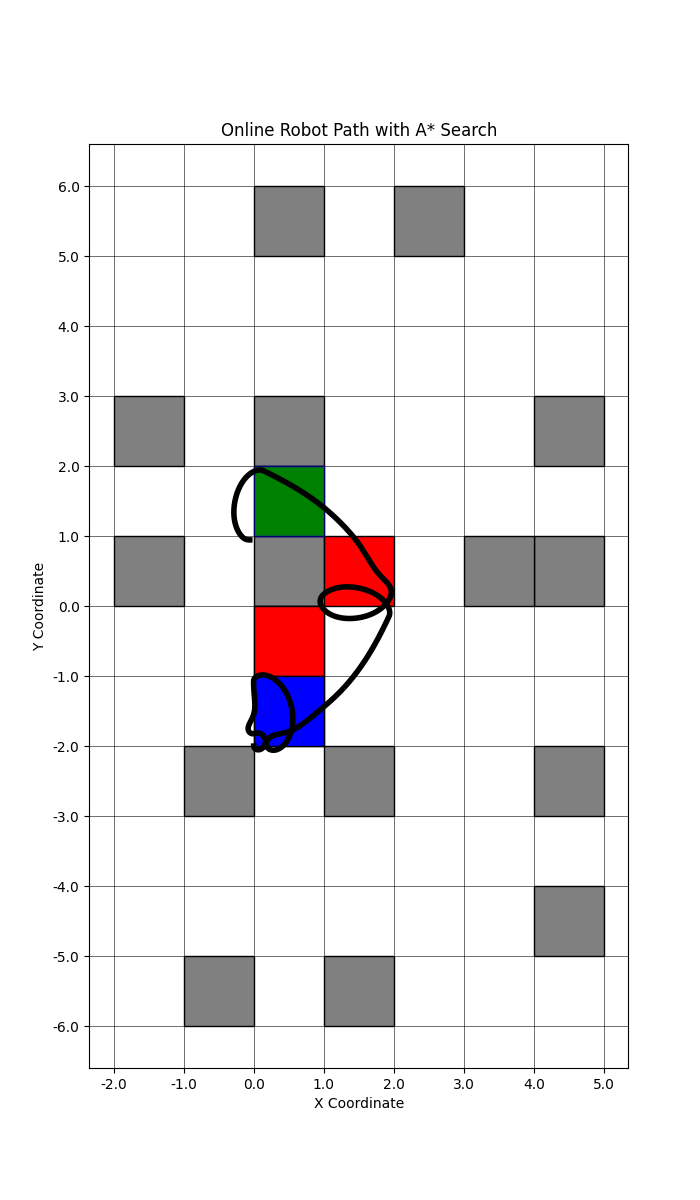
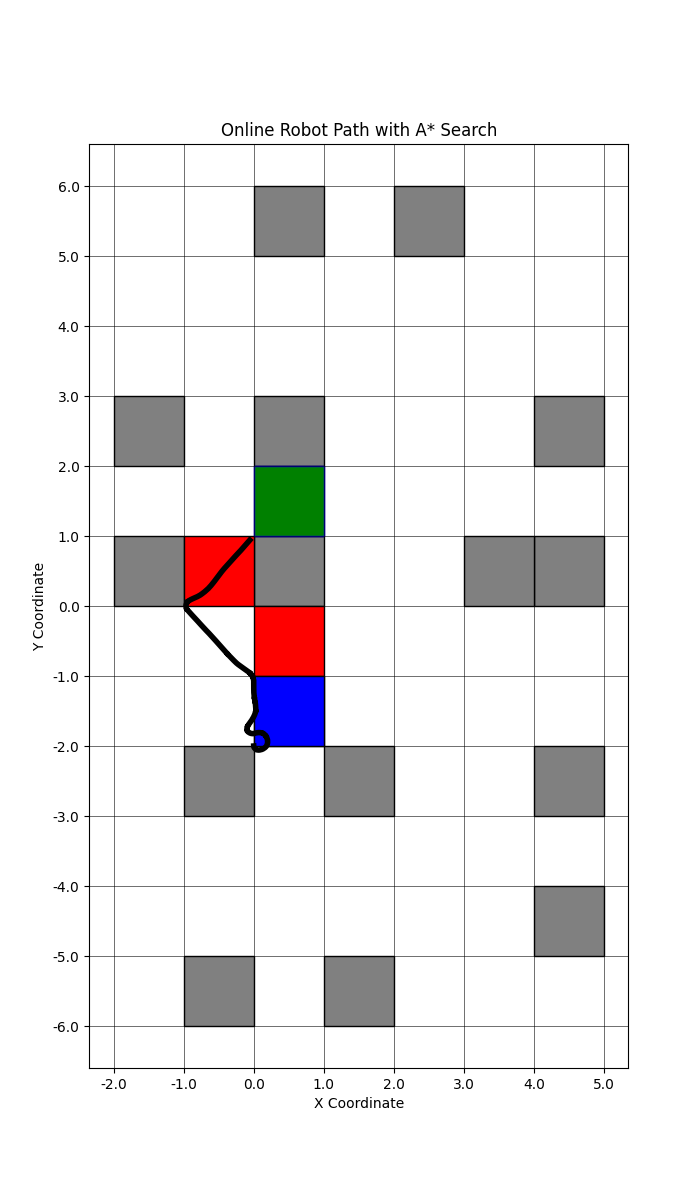
Fixed obstacle avoidance for coarse grid

Changed region(s): [[0.24, 0.37, 0.48, 0.6475], [0.42, 0.4008, 0.57, 0.555], [0.48, 0.555, 0.51, 0.5858]]

diff --git a/search.py b/search.py
@@ -10,29 +10,7 @@ import numpy as np
 import heapq
 
 from motion import wrap_angle, step_rk4
-
-#
-# --- Grid Representation ---
-#
-def pos_to_grid(pos, res):
-    """
-    Convert from orig units to internal integer representation
-    """
-    return tuple(np.floor(np.array(pos) / res).astype(int))
-
-def grid_to_pos(grid, res):
-    """
-    Convert from integer rep back to orig units
-    """
-    return np.round(np.array(grid)*res, 1)
-
-def round_to_res(n, res):
-    """
-    Given a number or np.ndarray of numbers, round to a given resolution.
-    """
-    if isinstance(n, tuple): n_arr = np.array(n)
-    else: n_arr = n
-    return np.round(np.floor(n_arr / res)*res, 1)   # TODO: Better way of eliminating floating point
+from utils import inflate_obstacles, round_to_res, pos_to_grid, grid_to_pos
 
 #
 # --- A* ---
@@ -117,7 +95,8 @@ def a_star(start_rep,
         obstacles = obstacles_i
         bounds = bounds_rep
     elif mode == 'real':
-        start, goal = pos_to_grid(start_rep, res), goal_rep
+        start, goal = start_rep, goal_rep
+        # start, goal = pos_to_grid(start_rep, res), goal_rep
         obstacles = obstacles_i
         bounds = bounds_rep
     else: 
@@ -274,6 +253,10 @@ def a_star_real(start_f, goal_f, bounds_f, res, obstacles_f, kv, kw, h=0.1, nois
     known_obstacles_i = set()     # Start without known obstacles
     known_obstacles_f = set()   # Needed to prevent floating point errors
 
+    # A* planning and control resolutions are different
+    a_res = res
+    res = min(res, 0.1)
+
     # Simulation initialization
     acc_limits = np.array([0.288, 5.5579])
     x0 = np.concatenate([start_f, np.array([-np.pi/2])])
@@ -288,16 +271,16 @@ def a_star_real(start_f, goal_f, bounds_f, res, obstacles_f, kv, kw, h=0.1, nois
     x_curr = x0         # Current true state
     while not current == goal:
         # Plan a naive path with known obstacls
-        naive_path = a_star(x_curr[:2], goal, bounds, res, known_obstacles_f, 
+        naive_path = a_star(current, goal, bounds, a_res, known_obstacles_f, 
                             mode='real', obstacles_i=known_obstacles_i)
         if not naive_path: break  # No path found
 
         # Check if next node is an obstacle
         for node in naive_path[1:]: # First node in path is last node of prev path
             # If node on naive path is obstacle, add to known_obstacles and replan
-            if node in obstacles or (tuple(grid_to_pos(node, res)) in obstacles_f):
+            if node in obstacles or (tuple(grid_to_pos(node, a_res)) in obstacles_f):
                 known_obstacles_i.add(node)
-                known_obstacles_f.add(tuple(grid_to_pos(node, res)))
+                known_obstacles_f.add(tuple(grid_to_pos(node, a_res)))
                 # TODO: Check all neighbors of current for obstacles as well
                 break
             else:
@@ -306,7 +289,7 @@ def a_star_real(start_f, goal_f, bounds_f, res, obstacles_f, kv, kw, h=0.1, nois
                 path.append(node)
 
                 # Optionally interoplate between current and starting point
-                x_next = grid_to_pos(node, res)
+                x_next = grid_to_pos(node, a_res)
                 if interp: 
                     x_des_x = np.linspace(x_curr[0], x_next[0], num=30)
                     x_des_y = np.linspace(x_curr[1], x_next[1], num=30)
@@ -314,12 +297,18 @@ def a_star_real(start_f, goal_f, bounds_f, res, obstacles_f, kv, kw, h=0.1, nois
                 else:
                     x_des_traj = [x_next]
 
+                # Inflate obstacles in control resolution grid if using coarse resolution
+                if res < a_res and known_obstacles_i:
+                    known_obstacles_col = inflate_obstacles(bounds, res, np.array(list(known_obstacles_i)) + a_res/2, inflate=3)
+                else:
+                    known_obstacles_col = known_obstacles_f
+
                 # Move to next via point
                 for x_des in x_des_traj:
                     while np.linalg.norm(x_des - x_curr[0:2]) > thresh:
                         # Compute potential field based on known obstacles
-                        if obs_avoid and known_obstacles_f:
-                            des_vecs_to_obstacles = np.array([o - x_des for o in known_obstacles_f])
+                        if obs_avoid and known_obstacles_col:
+                            des_vecs_to_obstacles = np.array([o - x_des for o in known_obstacles_col])
                             des_dist_to_obstacles = np.linalg.norm(des_vecs_to_obstacles, axis=1)
                             des_vecs_to_obstacles /= des_dist_to_obstacles.reshape((des_dist_to_obstacles.shape[0], 1))
                             des_nearby_obs_mask = des_dist_to_obstacles < res
@@ -327,13 +316,13 @@ def a_star_real(start_f, goal_f, bounds_f, res, obstacles_f, kv, kw, h=0.1, nois
                                 x_des -= res*vec
                             
                             # Get vectors to obstacles
-                            vecs_to_obstacles = np.array([o - x_curr[0:2] for o in known_obstacles_f])
+                            vecs_to_obstacles = np.array([o - x_curr[0:2] for o in known_obstacles_col])
                             dist_to_obstacles = np.linalg.norm(vecs_to_obstacles, axis=1)
                             vecs_to_obstacles /= dist_to_obstacles.reshape((dist_to_obstacles.shape[0], 1))
                             nearby_obs_mask = dist_to_obstacles < res
                             v_vec = x_des - x_curr[0:2]
                             for vec, dist in zip(vecs_to_obstacles[nearby_obs_mask], dist_to_obstacles[nearby_obs_mask]):
-                                v_vec -= 0.09*(1/dist)*vec
+                                v_vec -= 0.05*(1/(dist*res))*vec
                         else:
                             v_vec = x_des - x_curr[0:2]
 
@@ -355,5 +344,5 @@ def a_star_real(start_f, goal_f, bounds_f, res, obstacles_f, kv, kw, h=0.1, nois
                         v_prev = v_lim
                         w_prev = w_lim
 
-    path = [grid_to_pos(p, res) for p in path]
+    path = [grid_to_pos(p, a_res) for p in path]
     return path, np.array(x_ret)

diff --git a/questions.py b/questions.py
@@ -12,8 +12,9 @@ import matplotlib.pyplot as plt
 import matplotlib.patches as patches
 import os
 
-from search import round_to_res, a_star, a_star_online, a_star_real
+from search import a_star, a_star_online, a_star_real
 from motion import a_star_to_kspline, sim_rk4
+from utils import get_obstacles, round_to_res
 
 PLOT_PATH = os.path.join(__file__, "..\\figures")
 DATA_PATH = os.path.join(__file__, "..\\data")
@@ -96,32 +97,6 @@ def plot_grid(bounds, res, obstacles, title=None):
         ax.set_title(title)
 
     return fig, ax
-
-def get_obstacles(bounds, res, inflate=0):
-    """
-    Inflate is the number of cells to inflate in each direction
-    """
-    # Read ground truth landmark data
-    landmarks_truth_data_path = os.path.join(DATA_PATH, 'ds1_Landmark_Groundtruth.dat')
-    landmarks_truth = pd.read_csv(landmarks_truth_data_path, sep=r"\s+", comment="#", header=None, names=["subject", "x", "y", "x_sig", "y_sig"])
-    landmarks = landmarks_truth.to_numpy()[:, 1:3]
-     
-    # Plot landmarks
-    landmarks_rounded = set()  # Set of landmarks
-    # Inflate landmark by inflate number of cells
-    for l in landmarks:
-        # Cover full square of size (inflate)
-        for dx in range(-inflate, inflate + 1):
-            for dy in range(-inflate, inflate + 1):
-                x, y = (l[0] + dx * res), (l[1] + dy * res)
-
-                l_inf = round_to_res(np.array([x,y]), res)
-
-                # Check bounds
-                if bounds[0][0] <= l_inf[0] < bounds[0][1] and bounds[1][0] <= l_inf[1] < bounds[1][1]:
-                    landmarks_rounded.add(tuple(l_inf))
-
-    return landmarks_rounded
 
 #
 # --- Questions ---
@@ -342,19 +317,21 @@ def q11():
     res = 0.1
     obstacles = get_obstacles(bounds, res, inflate=3)
 
+    noi = 1e-2
+
     start = round_to_res(np.array([0.5, -1.5]), res)
     goal = round_to_res(np.array([0.5, 1.5]), res)
-    path, x_traj = a_star_real(start, goal, bounds, res, obstacles, kv=1.0, kw=1.0, h=0.1, noise=0.00, thresh=9e-2, interp=True)
+    path, x_traj = a_star_real(start, goal, bounds, res, obstacles, kv=1.0, kw=1.0, h=0.1, noise=noi, thresh=9e-2, interp=True)
     plot_search(start, goal, path, bounds, res, obstacles, f'Online Robot Path with A* Search', 'q11a.png', traj=x_traj)
 
     start = round_to_res(np.array([4.5, 3.5]), res)
     goal = round_to_res(np.array([4.5, -1.5]), res)
-    path, x_traj = a_star_real(start, goal, bounds, res, obstacles, kv=1.0, kw=1.0, h=0.1, noise=0.00, thresh=9e-2, interp=True)
+    path, x_traj = a_star_real(start, goal, bounds, res, obstacles, kv=1.0, kw=1.0, h=0.1, noise=noi, thresh=9e-2, interp=True)
     plot_search(start, goal, path, bounds, res, obstacles, f'Online Robot Path with A* Search', 'q11b.png', traj=x_traj)
 
     start = round_to_res(np.array([-0.5, 5.5]), res)
     goal = round_to_res(np.array([1.5, -3.5]), res)
-    path, x_traj = a_star_real(start, goal, bounds, res, obstacles, kv=1.0, kw=1.0, h=0.1, noise=0.00, thresh=9e-2, interp=True)
+    path, x_traj = a_star_real(start, goal, bounds, res, obstacles, kv=1.0, kw=1.0, h=0.1, noise=noi, thresh=9e-2, interp=True)
     plot_search(start, goal, path, bounds, res, obstacles, f'Online Robot Path with A* Search', 'q11c.png', traj=x_traj)
 
     res = 1.0
@@ -362,17 +339,17 @@ def q11():
 
     start = round_to_res(np.array([0.5, -1.5]), res)
     goal = round_to_res(np.array([0.5, 1.5]), res)
-    path, x_traj = a_star_real(start, goal, bounds, res, obstacles, kv=1.0, kw=1.0, h=0.1, noise=0.00, thresh=9e-2, interp=True)
+    path, x_traj = a_star_real(start, goal, bounds, res, obstacles, kv=1.0, kw=1.0, h=0.1, noise=noi, thresh=9e-2, interp=True)
     plot_search(start, goal, path, bounds, res, obstacles, f'Online Robot Path with A* Search', 'q11d.png', traj=x_traj)
 
     start = round_to_res(np.array([4.5, 3.5]), res)
     goal = round_to_res(np.array([4.5, -1.5]), res)
-    path, x_traj = a_star_real(start, goal, bounds, res, obstacles, kv=1.0, kw=1.0, h=0.1, noise=0.00, thresh=9e-2)
+    path, x_traj = a_star_real(start, goal, bounds, res, obstacles, kv=1.0, kw=1.0, h=0.1, noise=noi, thresh=9e-2, interp=True)
     plot_search(start, goal, path, bounds, res, obstacles, f'Online Robot Path with A* Search', 'q11e.png', traj=x_traj)
 
     start = round_to_res(np.array([-0.5, 5.5]), res)
     goal = round_to_res(np.array([1.5, -3.5]), res)
-    path, x_traj = a_star_real(start, goal, bounds, res, obstacles, kv=1.0, kw=1.0, h=0.1, noise=0.00, thresh=9e-2)
+    path, x_traj = a_star_real(start, goal, bounds, res, obstacles, kv=1.0, kw=1.0, h=0.1, noise=noi, thresh=9e-2, interp=True)
     plot_search(start, goal, path, bounds, res, obstacles, f'Online Robot Path with A* Search', 'q11f.png', traj=x_traj)
 
     print("Done\n")

diff --git a/utils.py b/utils.py
@@ -1,0 +1,66 @@
+"""
+Hold common utility functions.
+"""
+import os
+import numpy as np
+import pandas as pd
+
+DATA_PATH = os.path.join(__file__, "..\\data")
+
+#
+# --- Grid Representation ---
+#
+def pos_to_grid(pos, res):
+    """
+    Convert from orig units to internal integer representation
+    """
+    return tuple(np.floor(np.array(pos) / res).astype(int))
+
+def grid_to_pos(grid, res):
+    """
+    Convert from integer rep back to orig units
+    """
+    return np.round(np.array(grid)*res, 1)
+
+def round_to_res(n, res):
+    """
+    Given a number or np.ndarray of numbers, round to a given resolution.
+    """
+    if isinstance(n, tuple): n_arr = np.array(n)
+    else: n_arr = n
+    return np.round(np.floor(n_arr / res)*res, 1)   # TODO: Better way of eliminating floating point
+
+def inflate_obstacles(bounds, res, obstacles, inflate):
+    """
+    Inflate a given set of obstacles by a specified amount
+    """
+    # Plot obstacles
+    obstacles_rounded = set()  # Set of obstacles
+    # Inflate obstacle by inflate number of cells
+    for l in obstacles:
+        # Cover full square of size (inflate)
+        for dx in range(-inflate, inflate + 1):
+            for dy in range(-inflate, inflate + 1):
+                x, y = (l[0] + dx * res), (l[1] + dy * res)
+
+                l_inf = round_to_res(np.array([x,y]), res)
+
+                # Check bounds
+                if bounds[0][0] <= l_inf[0] < bounds[0][1] and bounds[1][0] <= l_inf[1] < bounds[1][1]:
+                    obstacles_rounded.add(tuple(l_inf))
+
+    return obstacles_rounded
+
+def get_obstacles(bounds, res, inflate=0):
+    """
+    Inflate is the number of cells to inflate in each direction
+    """
+    # Read ground truth obstacle data
+    landmarks_truth_data_path = os.path.join(DATA_PATH, 'ds1_Landmark_Groundtruth.dat')
+    landmarks_truth = pd.read_csv(landmarks_truth_data_path, sep=r"\s+", comment="#", header=None, names=["subject", "x", "y", "x_sig", "y_sig"])
+    landmarks = landmarks_truth.to_numpy()[:, 1:3]
+     
+    obstacles = inflate_obstacles(bounds, res, landmarks, inflate=inflate)
+
+    return obstacles
+    

diff --git a/run.py b/run.py
@@ -15,16 +15,16 @@ np.random.seed(42)
 def main():
     print("*** STARTING ***\n")
 
-    q1()
-    q2()
-    q3()
-    q4()
-    q5()
-    q6()
-    q7()
-    q8()
-    q9()
-    q10()
+    # q1()
+    # q2()
+    # q3()
+    # q4()
+    # q5()
+    # q6()
+    # q7()
+    # q8()
+    # q9()
+    # q10()
     q11()
     
     print("\n*** DONE ***")
